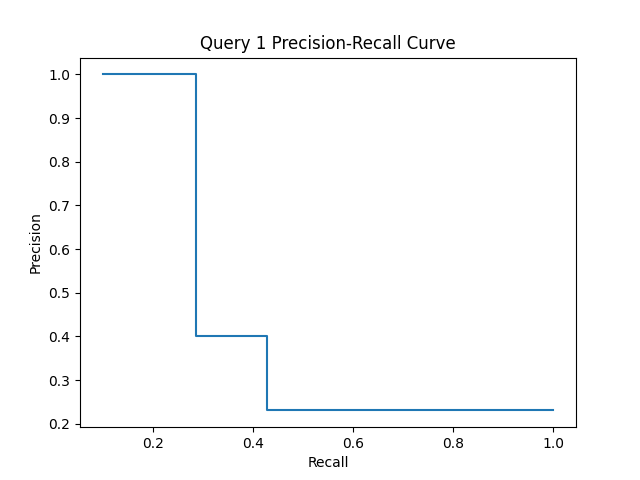
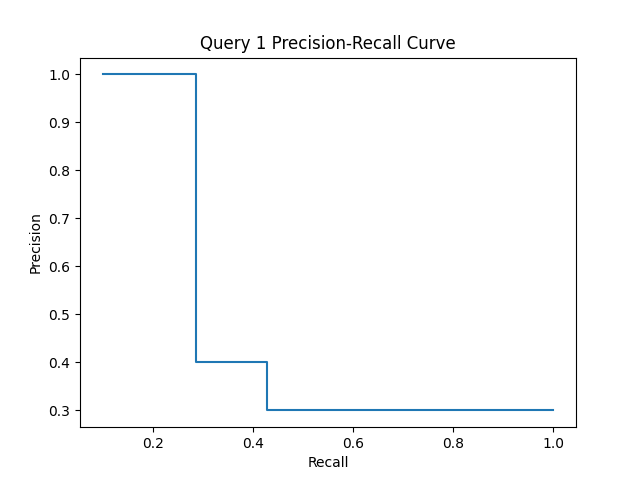
Fix: AP Calculation. | Add: MaP.

diff --git a/elasticsearch/evaluate_news.py b/elasticsearch/evaluate_news.py
@@ -25,7 +25,7 @@ query_json = json.loads(file_string)
 relevant = list(map(lambda el: el.strip(), open(QRELS_FILE).readlines()))
 # Get query results from Solr instance
 
-outer_results = requests.get(QUERY_URL, json=query_json).json()['hits']['hits']
+outer_results = requests.get(QUERY_URL, json=query_json).json()['hits']['hits'][:10]
 results = []
 for coin in outer_results:
     for new in coin['inner_hits']['news']['hits']['hits']:
@@ -79,6 +79,7 @@ def ap(results, relevant):
             if doc['_source']['url'] in relevant
         ]) / idx 
         for idx in range(1, len(results))
+        if results[idx - 1]['_source']['url'] in relevant
     ]
     return sum(precision_values)/len(precision_values)
 

diff --git a/elasticsearch/evaluate.py b/elasticsearch/evaluate.py
@@ -26,7 +26,7 @@ query_json = json.loads(file_string)
 relevant = list(map(lambda el: el.strip(), open(QRELS_FILE).readlines()))
 # Get query results from Solr instance
 
-results = requests.get(QUERY_URL, json=query_json).json()['hits']['hits']
+results = requests.get(QUERY_URL, json=query_json).json()['hits']['hits'][:10]
 
 relevance_string = ""
 
@@ -76,6 +76,7 @@ def ap(results, relevant):
             if doc['_source']['id'] in relevant
         ]) / idx 
         for idx in range(1, len(results))
+        if results[idx - 1]['_source']['id'] in relevant
     ]
     return sum(precision_values)/len(precision_values)
 

diff --git a/elasticsearch/results/1/results1.tex b/elasticsearch/results/1/results1.tex
@@ -3,10 +3,10 @@
 {} &                     0 &         1 \\
 \midrule
 0 &                Metric &     Value \\
-1 &     Average Precision &  0.502192 \\
+1 &     Average Precision &  0.833333 \\
 2 &  Precision at 3 (P@3) &  0.666667 \\
-3 &             Precision &  0.230769 \\
+3 &             Precision &       0.3 \\
 4 &                Recall &  0.428571 \\
-5 &            F1 Measure &       0.3 \\
+5 &            F1 Measure &  0.352941 \\
 \bottomrule
 \end{tabular}

diff --git a/elasticsearch/results/2/results1.tex b/elasticsearch/results/2/results1.tex
@@ -3,10 +3,10 @@
 {} &                     0 &         1 \\
 \midrule
 0 &                Metric &     Value \\
-1 &     Average Precision &  0.518858 \\
+1 &     Average Precision &  0.866667 \\
 2 &  Precision at 3 (P@3) &  0.666667 \\
-3 &             Precision &  0.230769 \\
+3 &             Precision &       0.3 \\
 4 &                Recall &  0.428571 \\
-5 &            F1 Measure &       0.3 \\
+5 &            F1 Measure &  0.352941 \\
 \bottomrule
 \end{tabular}

diff --git a/elasticsearch/results/original/results1.tex b/elasticsearch/results/original/results1.tex
@@ -3,10 +3,10 @@
 {} &                     0 &         1 \\
 \midrule
 0 &                Metric &     Value \\
-1 &     Average Precision &  0.518858 \\
+1 &     Average Precision &  0.866667 \\
 2 &  Precision at 3 (P@3) &  0.666667 \\
-3 &             Precision &  0.230769 \\
+3 &             Precision &       0.3 \\
 4 &                Recall &  0.428571 \\
-5 &            F1 Measure &       0.3 \\
+5 &            F1 Measure &  0.352941 \\
 \bottomrule
 \end{tabular}

diff --git a/elasticsearch/results/1/results4.tex b/elasticsearch/results/1/results4.tex
@@ -3,7 +3,7 @@
 {} &                     0 &         1 \\
 \midrule
 0 &                Metric &     Value \\
-1 &     Average Precision &  0.790395 \\
+1 &     Average Precision &  0.944444 \\
 2 &  Precision at 3 (P@3) &       1.0 \\
 3 &             Precision &  0.461538 \\
 4 &                Recall &       1.0 \\

diff --git a/elasticsearch/results/1/results5.tex b/elasticsearch/results/1/results5.tex
@@ -3,7 +3,7 @@
 {} &                     0 &         1 \\
 \midrule
 0 &                Metric &     Value \\
-1 &     Average Precision &  0.884921 \\
+1 &     Average Precision &  0.958333 \\
 2 &  Precision at 3 (P@3) &       1.0 \\
 3 &             Precision &       0.6 \\
 4 &                Recall &      0.75 \\

diff --git a/elasticsearch/results/1/results6.tex b/elasticsearch/results/1/results6.tex
@@ -3,7 +3,7 @@
 {} &                     0 &         1 \\
 \midrule
 0 &                Metric &     Value \\
-1 &     Average Precision &  0.665212 \\
+1 &     Average Precision &       1.0 \\
 2 &  Precision at 3 (P@3) &       1.0 \\
 3 &             Precision &       0.3 \\
 4 &                Recall &       1.0 \\

diff --git a/elasticsearch/results/2/results4.tex b/elasticsearch/results/2/results4.tex
@@ -3,7 +3,7 @@
 {} &                     0 &         1 \\
 \midrule
 0 &                Metric &     Value \\
-1 &     Average Precision &  0.843929 \\
+1 &     Average Precision &  0.944444 \\
 2 &  Precision at 3 (P@3) &       1.0 \\
 3 &             Precision &  0.545455 \\
 4 &                Recall &       1.0 \\

diff --git a/elasticsearch/results/2/results5.tex b/elasticsearch/results/2/results5.tex
@@ -3,7 +3,7 @@
 {} &                     0 &         1 \\
 \midrule
 0 &                Metric &     Value \\
-1 &     Average Precision &  0.884921 \\
+1 &     Average Precision &  0.958333 \\
 2 &  Precision at 3 (P@3) &       1.0 \\
 3 &             Precision &       0.6 \\
 4 &                Recall &      0.75 \\

diff --git a/elasticsearch/results/2/results6.tex b/elasticsearch/results/2/results6.tex
@@ -3,7 +3,7 @@
 {} &                     0 &         1 \\
 \midrule
 0 &                Metric &     Value \\
-1 &     Average Precision &  0.665212 \\
+1 &     Average Precision &       1.0 \\
 2 &  Precision at 3 (P@3) &       1.0 \\
 3 &             Precision &       0.3 \\
 4 &                Recall &       1.0 \\

diff --git a/elasticsearch/results/3/results1.tex b/elasticsearch/results/3/results1.tex
@@ -3,7 +3,7 @@
 {} &                     0 &         1 \\
 \midrule
 0 &                Metric &     Value \\
-1 &     Average Precision &   0.45119 \\
+1 &     Average Precision &     0.625 \\
 2 &  Precision at 3 (P@3) &  0.333333 \\
 3 &             Precision &       0.3 \\
 4 &                Recall &  0.428571 \\
